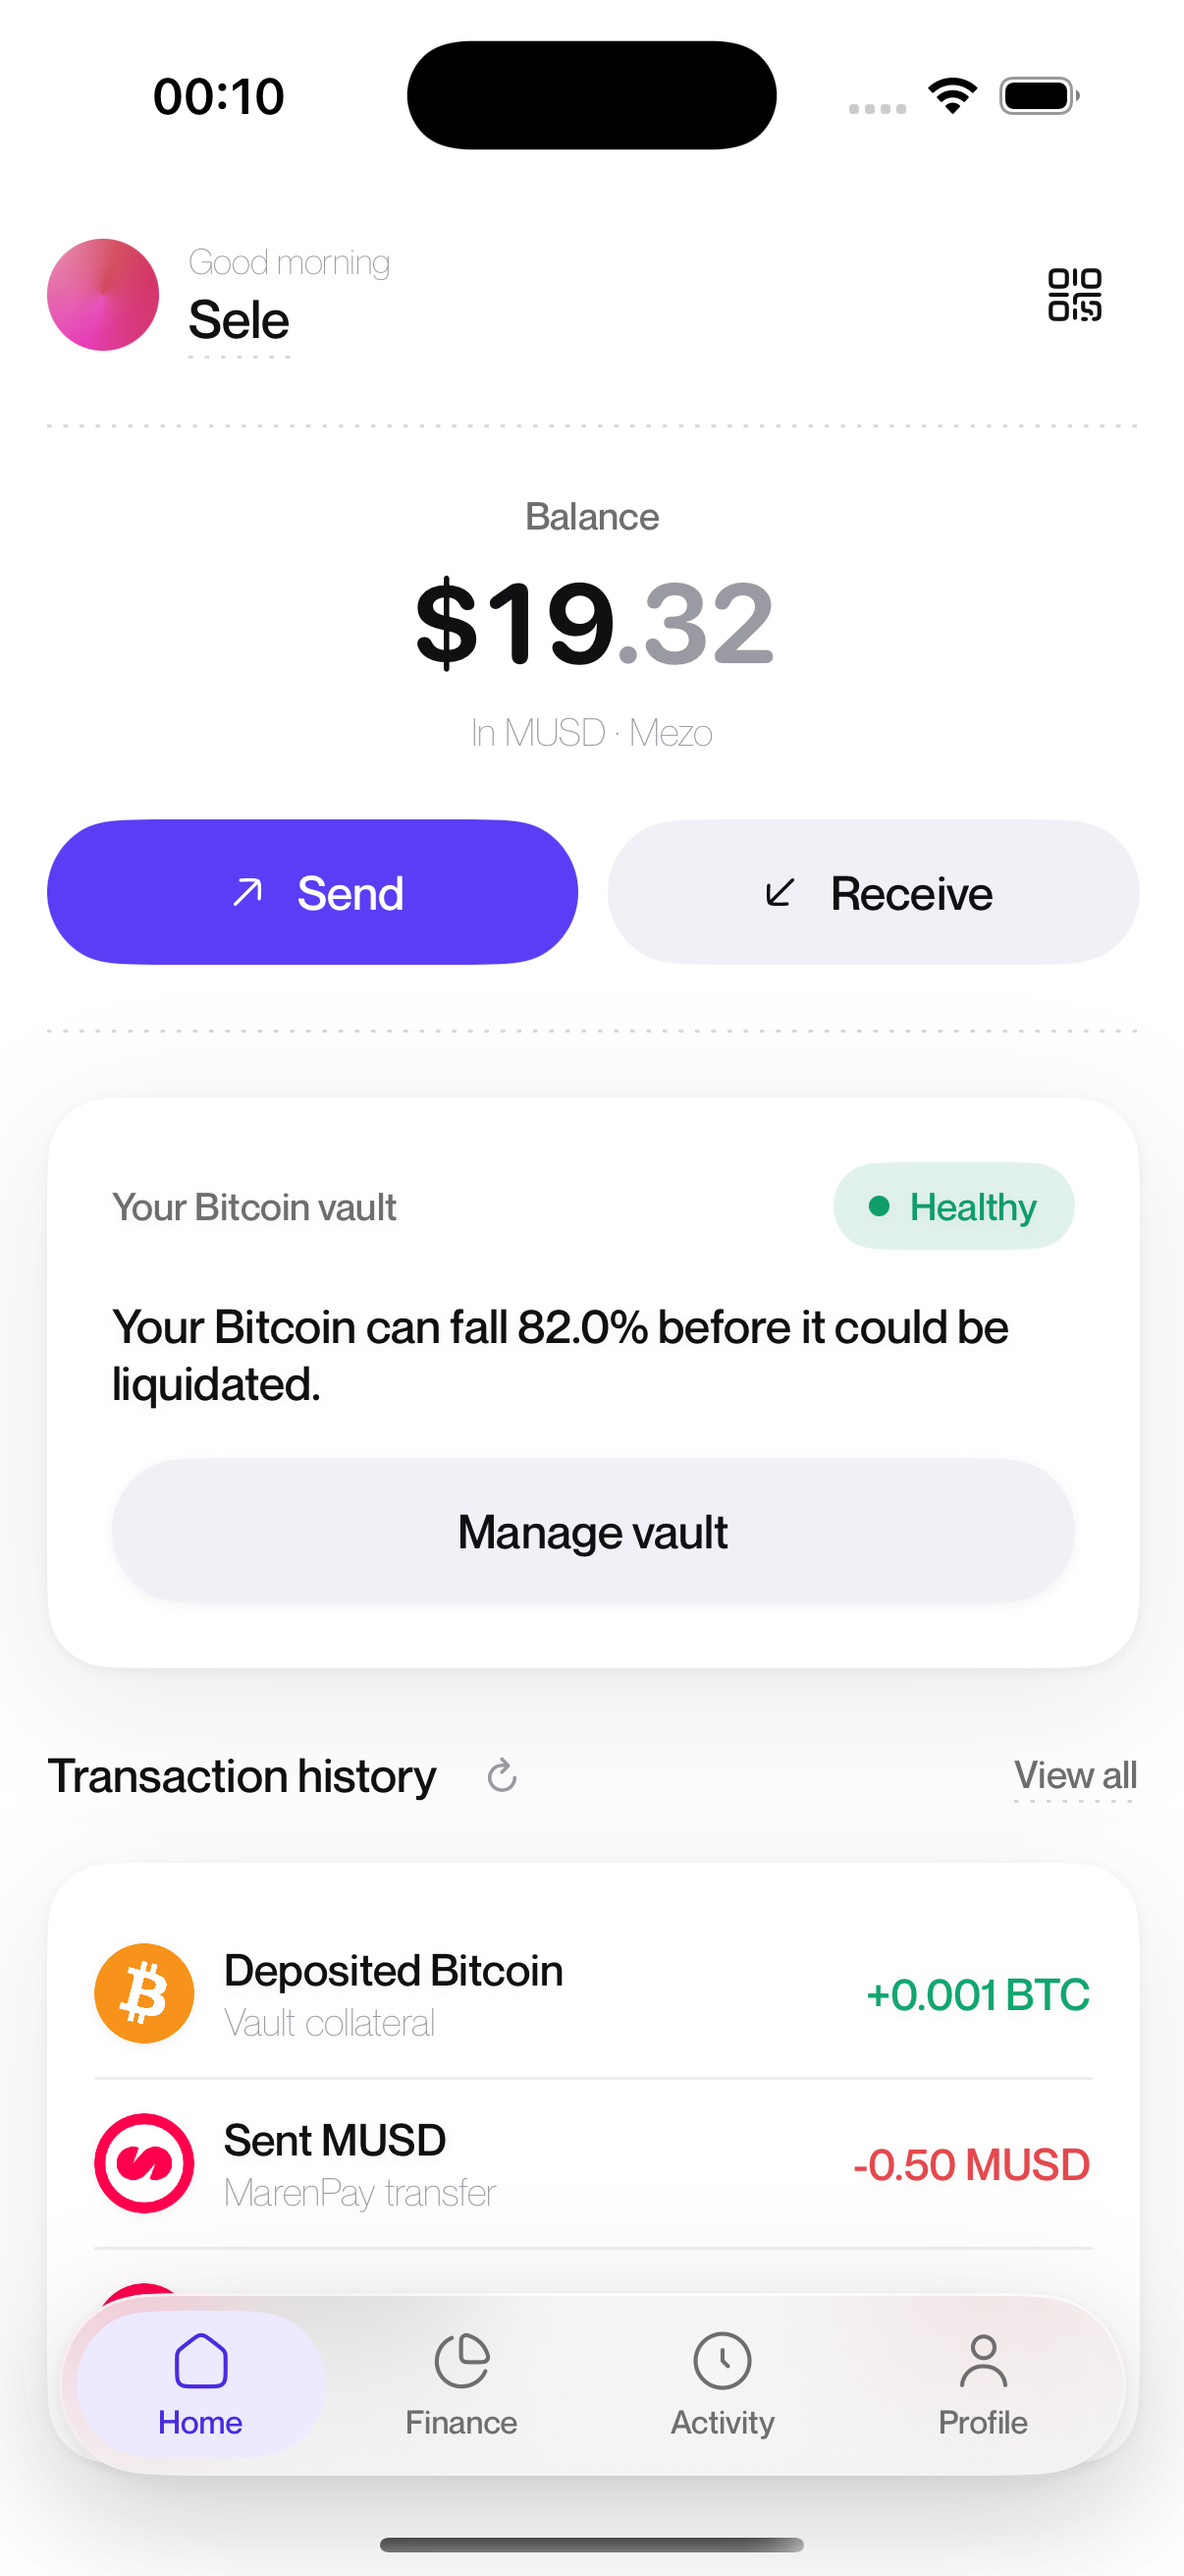
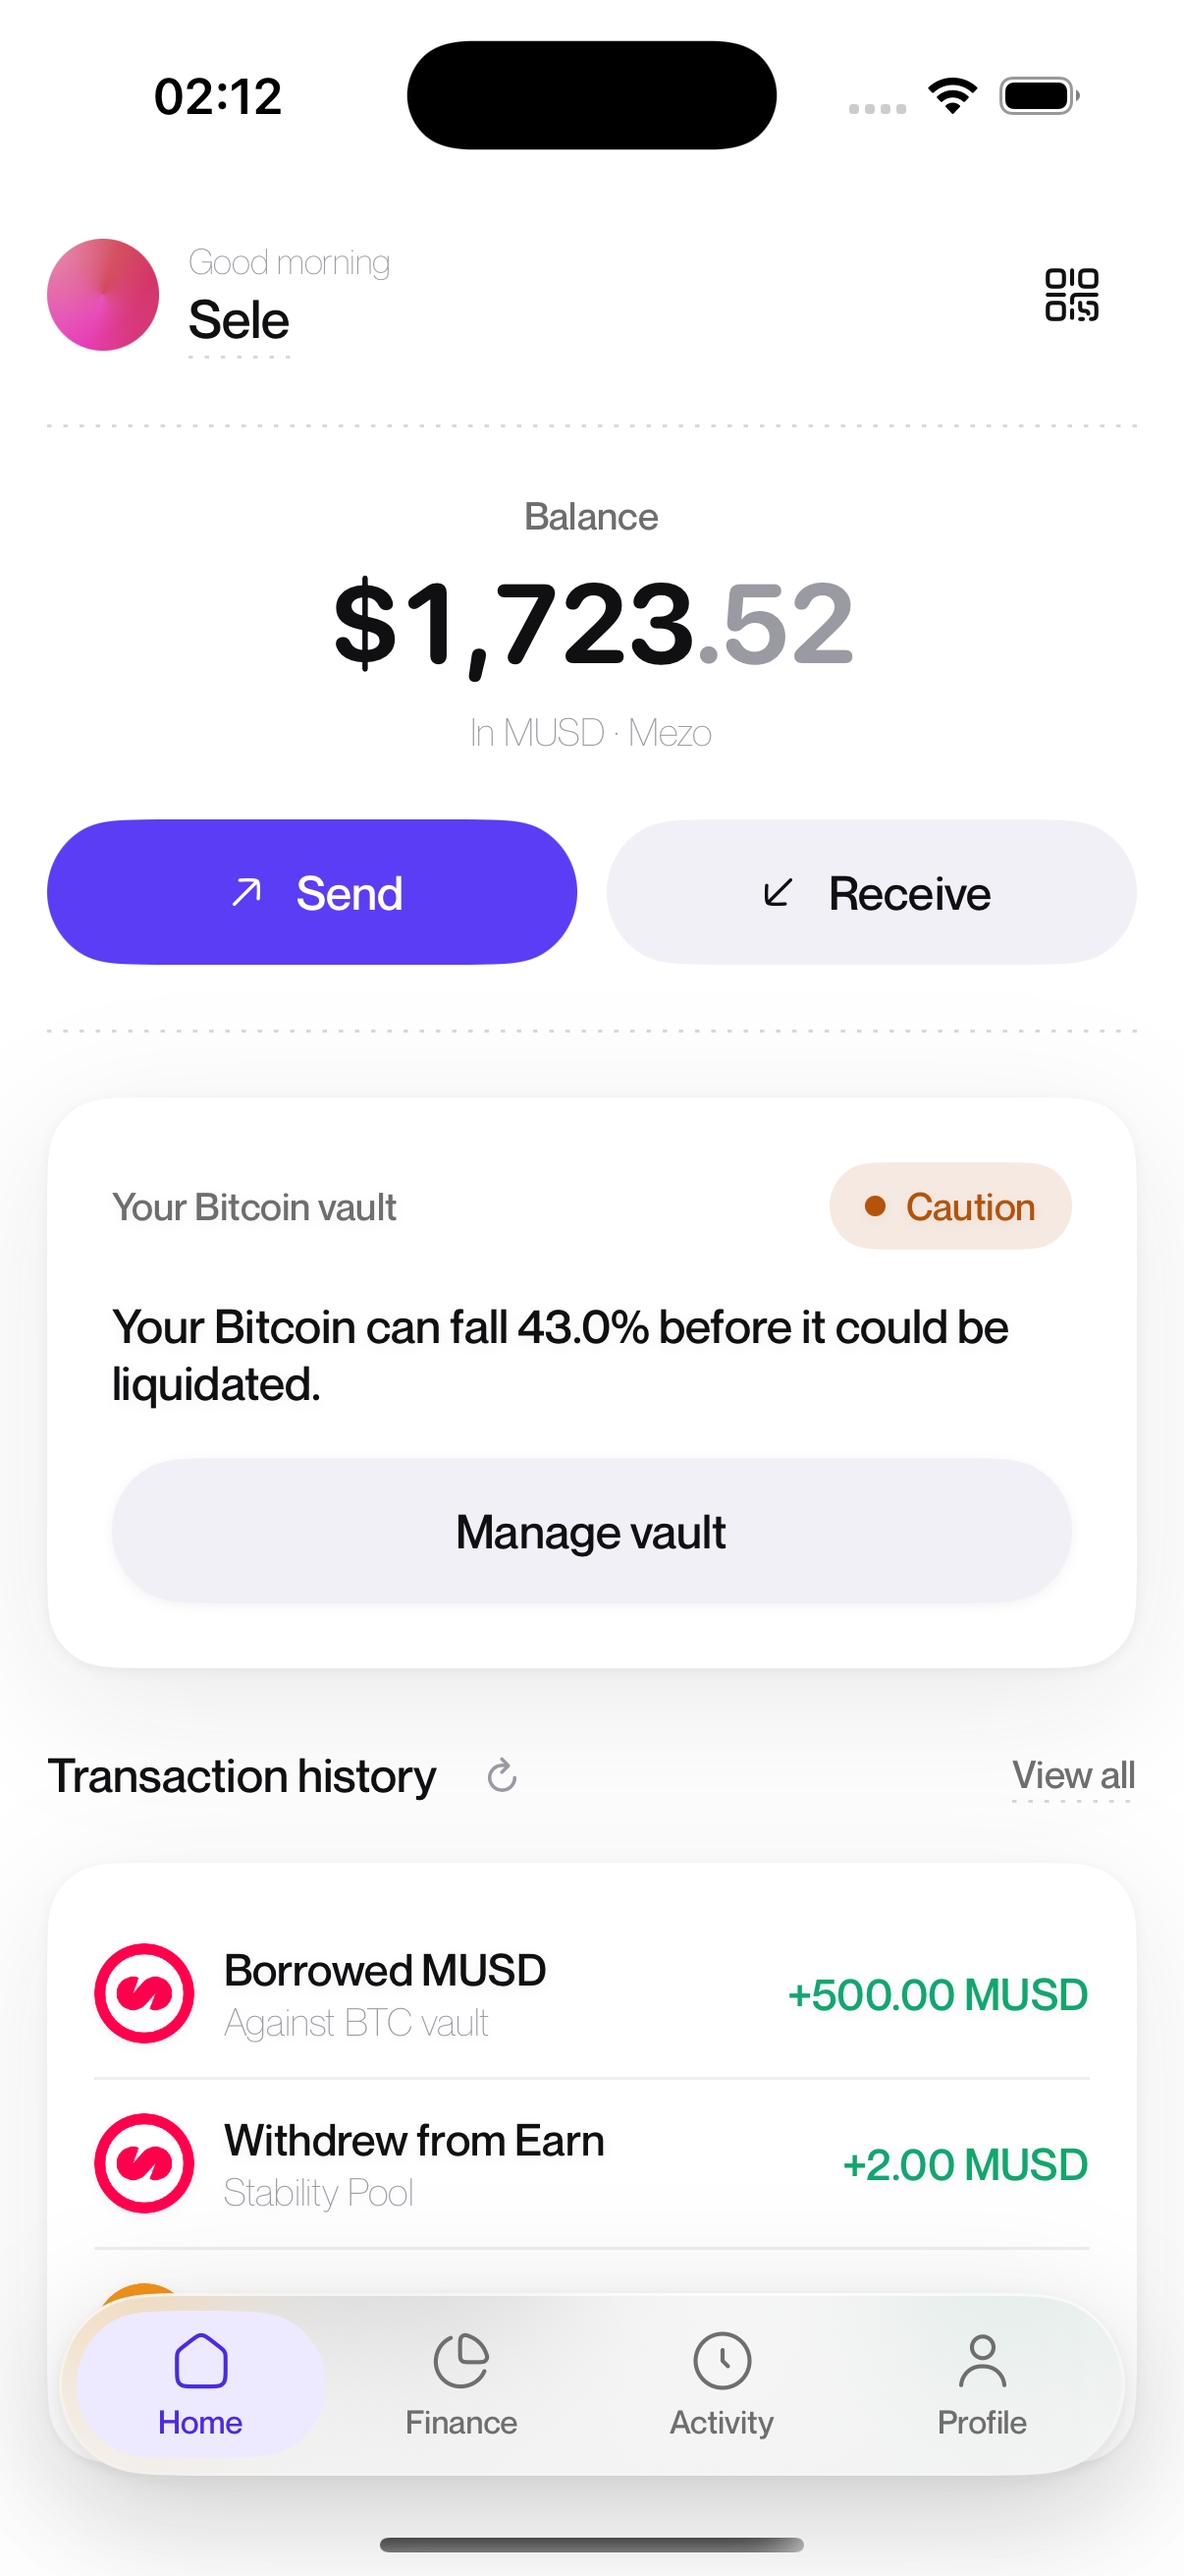
web: new hero home screenshot ($1,723.52), nudge phone up
- Swap the hero phone capture for the fuller home screen; update alt text to match
  the Caution vault state (drop 'healthy').
- Pull the phone up: hero-stage top margin clamp(46,8vh,88) -> clamp(22,4.5vh,52).

diff --git a/apps/web/src/components/hero.tsx b/apps/web/src/components/hero.tsx
@@ -46,7 +46,7 @@ export function Hero() {
               {/* eslint-disable-next-line @next/next/no-img-element */}
               <img
                 src="/app-home.png"
-                alt="The Maren app home screen: a Bitcoin-backed MUSD balance, Send and Receive, a healthy Bitcoin vault, and recent transactions."
+                alt="The Maren app home screen: a Bitcoin-backed MUSD balance, Send and Receive, a Bitcoin vault with its liquidation buffer, and recent transactions."
               />
             </div>
           </div>

diff --git a/apps/web/src/app/landing.css b/apps/web/src/app/landing.css
@@ -463,7 +463,7 @@
 
 /* Realistic iPhone 16 Pro frame wrapping the real screenshot — titanium rim, black
    bezel, side buttons. Big and centred, no floating cards on the body. */
-.landing .hero-stage { position: relative; margin: clamp(46px, 8vh, 88px) auto 0; display: flex; justify-content: center; }
+.landing .hero-stage { position: relative; margin: clamp(22px, 4.5vh, 52px) auto 0; display: flex; justify-content: center; }
 .landing .phone-16 {
   position: relative;
   width: min(392px, 87vw);
